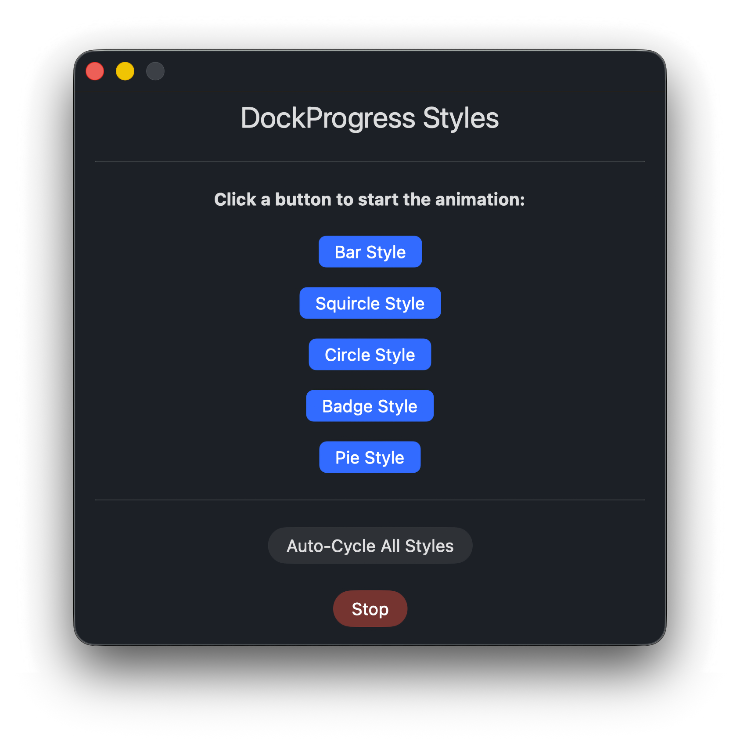
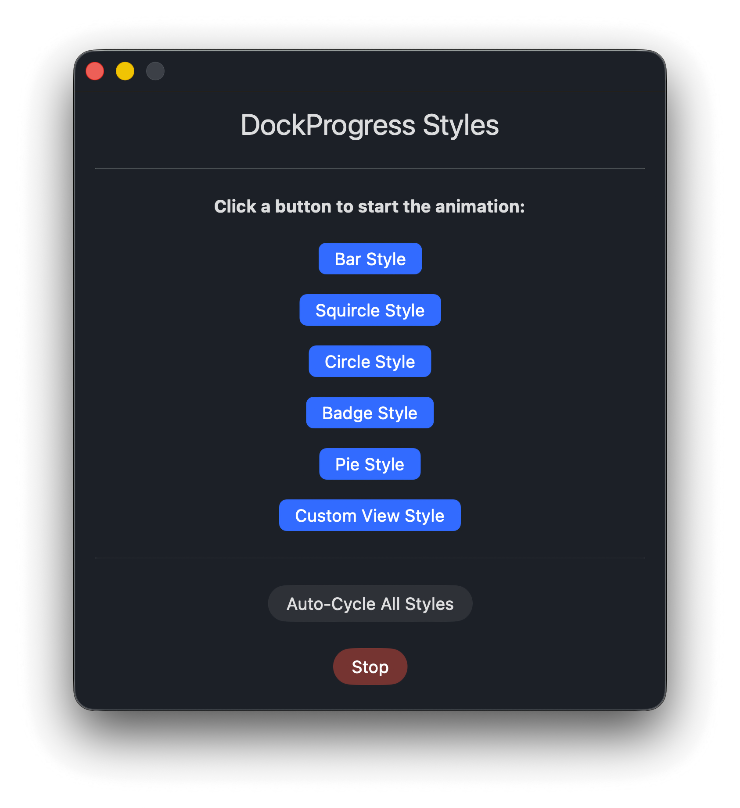
Update DockProgress to 5.0.2 and add custom view style
- Upgraded DockProgress package from version 4.3.1 to 5.0.2
- Lowered the macOS deployment target to 12.4
- Added a new custom view style to AppState
 -Updated the badge style calculation
- Increased the window height
- Also updated the screenshot to reflect UI changes.

diff --git a/DockProgress-test/AppState.swift b/DockProgress-test/AppState.swift
@@ -6,7 +6,7 @@ internal import Combine
 
 private enum Constants {
     static let windowWidth: CGFloat = 450
-    static let windowHeight: CGFloat = 420
+    static let windowHeight: CGFloat = 470
 }
 
 @MainActor
@@ -19,8 +19,11 @@ final class AppState: ObservableObject {
         .bar,
         .squircle(color: .blue),
         .circle(radius: 30, color: .purple),
-        .badge(color: .blue) { Int(DockProgress.displayedProgress * 12) },
+        .badge(color: .blue) { Int(DockProgress.displayedProgress * 10) },
         .pie(color: .blue),
+        .customView { progress in
+            CustomView(progress: progress)
+        },
     ]
 
     let styleNames = [
@@ -29,6 +32,7 @@ final class AppState: ObservableObject {
         "Circle Style",
         "Badge Style",
         "Pie Style",
+        "Custom View Style",
     ]
 
     func startStyle(at index: Int) {
@@ -160,5 +164,40 @@ struct ContentView: View {
         }
         .padding()
         .frame(width: Constants.windowWidth, height: Constants.windowHeight)
+    }
+}
+
+private struct CustomView: View {
+    let progress: Double
+
+    var body: some View {
+        ZStack {
+            Circle()
+                .stroke(
+                    LinearGradient(
+                        colors: [.blue, .purple],
+                        startPoint: .top,
+                        endPoint: .bottom
+                    ),
+                    lineWidth: 8
+                )
+                .opacity(0.3)
+                .frame(width: 80, height: 80)
+            Circle()
+                .trim(from: 0, to: progress)
+                .stroke(
+                    LinearGradient(
+                        colors: [.blue, .purple],
+                        startPoint: .top,
+                        endPoint: .bottom
+                    ),
+                    style: StrokeStyle(lineWidth: 8, lineCap: .round)
+                )
+                .rotationEffect(.degrees(-90))
+                .frame(width: 80, height: 80)
+            Text("\(Int(progress * 100))%")
+                .font(.system(size: 20, weight: .bold).monospacedDigit())
+                .foregroundColor(.white)
+        }
     }
 }

diff --git a/DockProgress-test/App.swift b/DockProgress-test/App.swift
@@ -11,6 +11,7 @@ struct AppMain: App {
                 .navigationTitle("")
                 .environmentObject(appState)
         }
-        .windowResizability(.contentSize)
+        // macOS 13.0 or newer
+//        .windowResizability(.contentSize)
     }
 }
